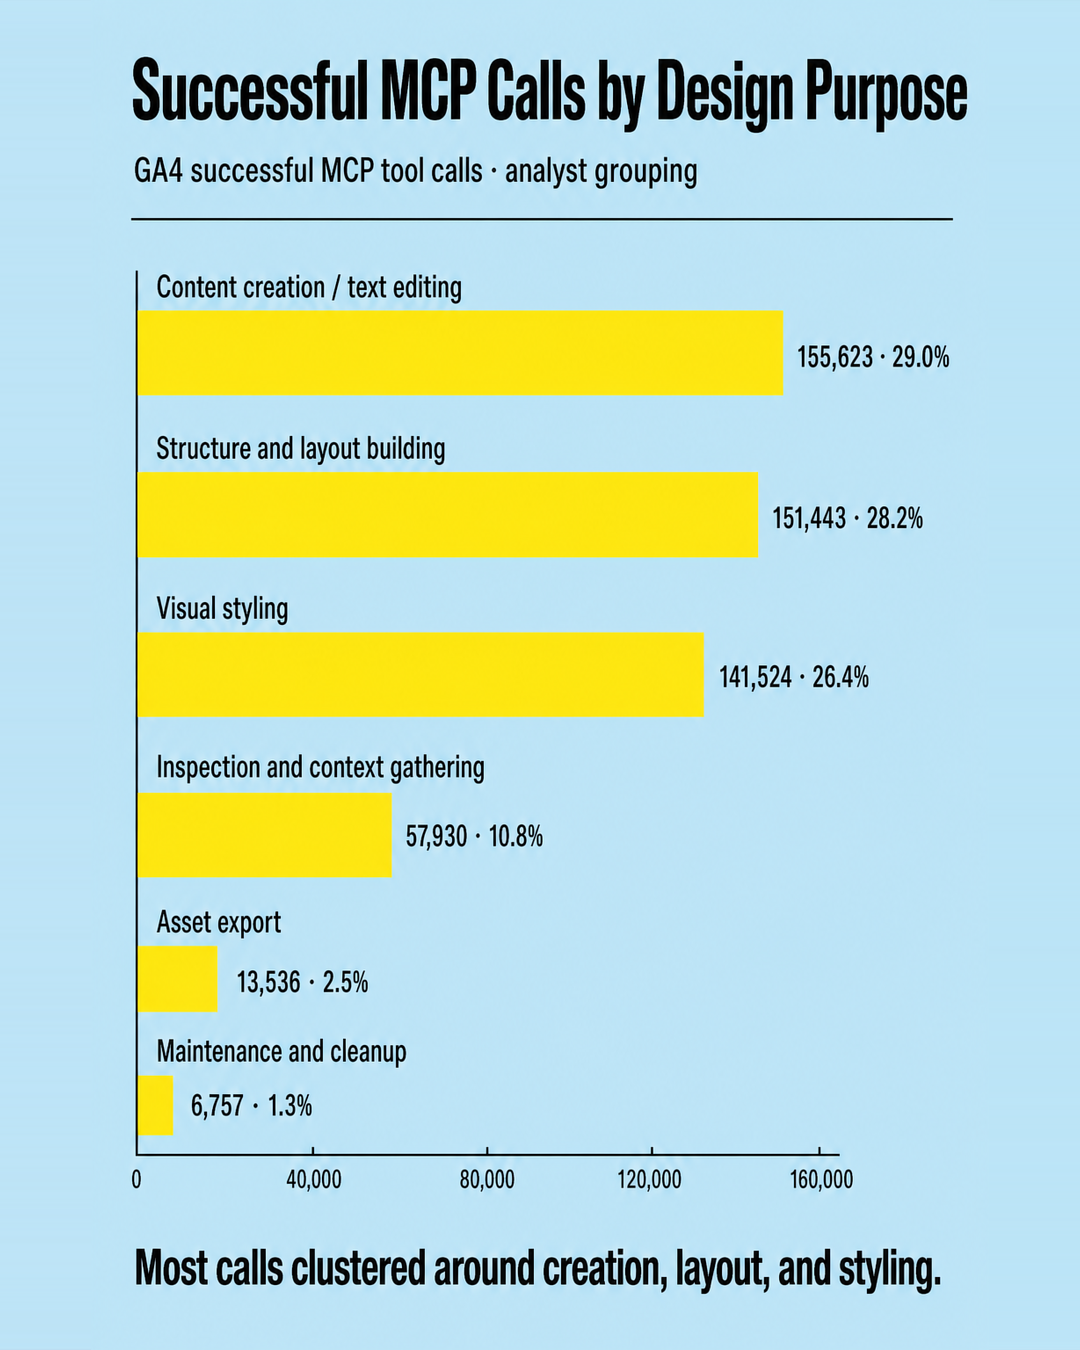
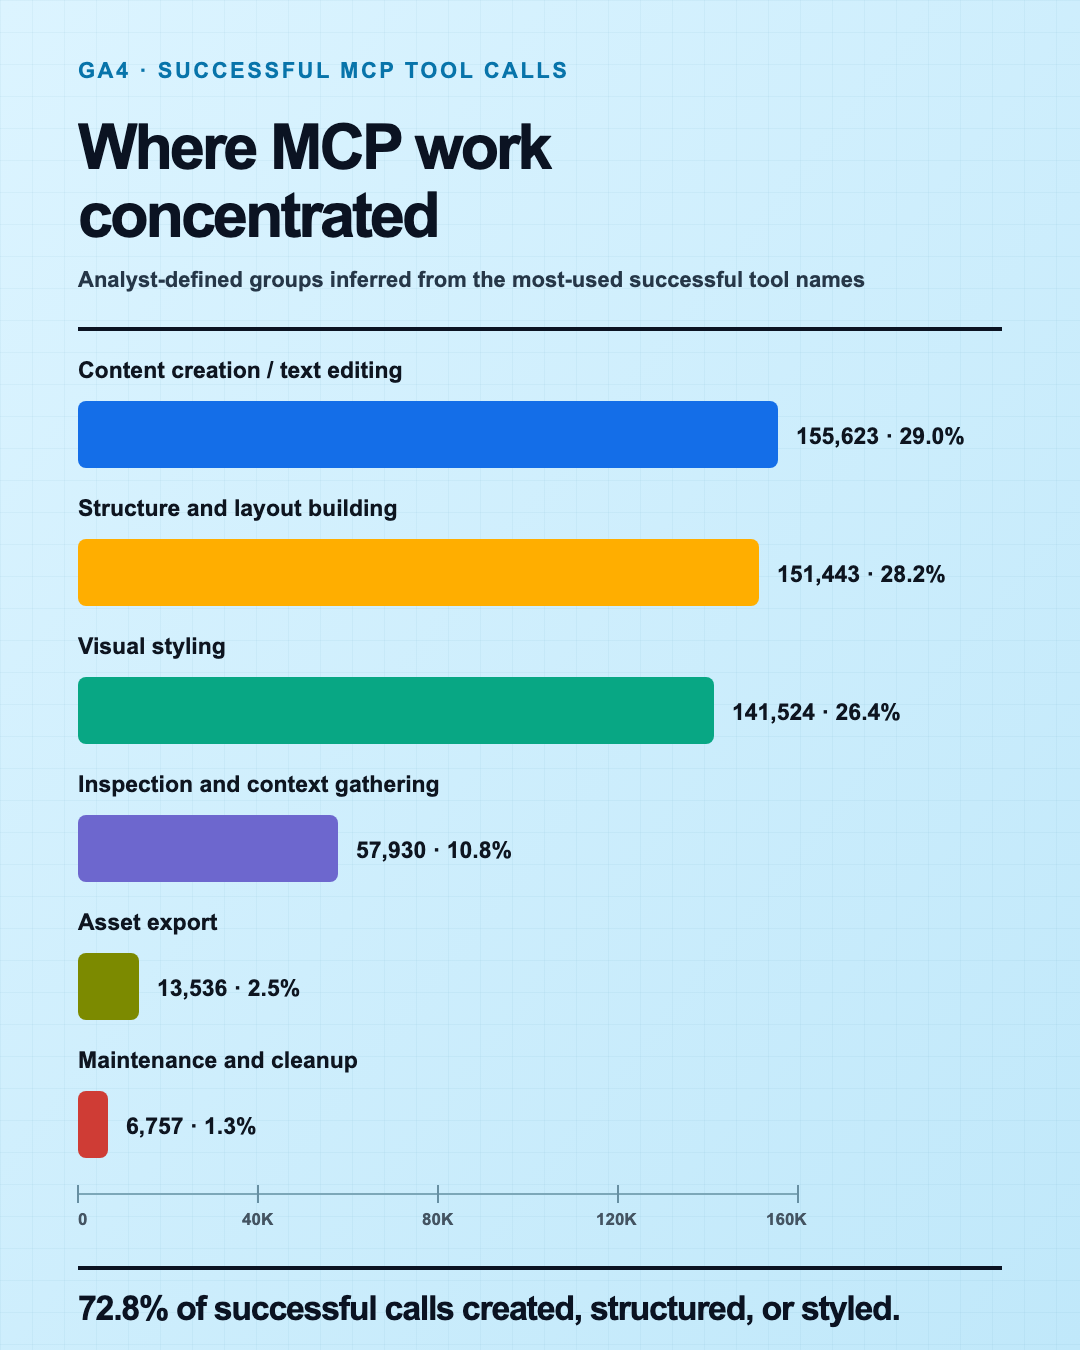
Update MCP Magic English retrospective

diff --git a/_posts/2026-07-12-mcp-magic-retrospective-en.md b/_posts/2026-07-12-mcp-magic-retrospective-en.md
@@ -1,49 +1,55 @@
 ---
 title: "31,360 Cumulative Users and 570,000 Calls: MCP Magic"
 date: 2026-07-12 00:00:00
-description: "31,360 cumulative users and 570,373 MCP tool calls. A retrospective on turning the first connection into a product—and what happened once the center of that experience moved into the platform."
+description: "31,360 cumulative users and 570,373 MCP tool calls. A retrospective on turning the first connection into a product—and what happened as the experience moved into the platform."
 featured_image: "/images/projects/2026-mcp-magic-retrospective/mcp-magic-desktop-en.png"
 article_class: "post__content--mcp-magic-retrospective"
 title_class: "post__title--mcp-magic-retrospective"
 visible: true
 lang: en
 translation_key: mcp-magic-retrospective
+authors:
+  - JooHyung
+  - Yiseo
+  - Jin
 ---
 
 > What we built was not a new AI feature. It was a doorway people could cross—from installation to their first successful call—without giving up along the way.
 
 _Read the [original Korean post](/blog/mcp-magic-retrospective)._
 
-GA4 recorded **31,360 cumulative users** and **570,373 MCP tool calls**. The project worked. But as usage grew, operating the connection became the harder problem, and the center of the experience we were solving for began moving into the official platform.
+GA4 recorded **31,360 cumulative users** and **570,373 MCP tool calls**. Those numbers show that the project was used in the real world. But after helping extend and launch the Talk To Figma desktop app that JooHyung and Jin had built into MCP Magic, I found myself thinking about a different set of questions: How could we keep this experience dependable as more people used it? And where would the path we made ultimately belong?
 
 <figure id="mcp-retro-key-metrics" class="mcp-retro-image-figure">
   <a href="/images/projects/2026-mcp-magic-retrospective/mcp-magic-key-metrics-social-en.png" aria-label="View the MCP Magic key metrics image at full size">
-    <img src="/images/projects/2026-mcp-magic-retrospective/mcp-magic-key-metrics-social-en.png" width="1122" height="1402" alt="An overview of 31,360 cumulative GA4 users, 570,373 MCP tool calls, and a 94.1 percent success rate for status-classified calls">
+    <img src="/images/projects/2026-mcp-magic-retrospective/mcp-magic-key-metrics-social-en.png" width="1080" height="1350" alt="An infographic showing 31,360 cumulative users, 570,373 MCP tool calls, and a 94.1 percent success rate among status-classified calls">
   </a>
   <figcaption>31,360 is the cumulative user count for the whole app. 1,633 active users generated at least one <code>mcp_tool_call</code> event; these are not sequential funnel stages for the same users. The GA4 query covers July 1, 2025–June 30, 2026, with valid records beginning in August 2025. The success rate uses the 570,044 calls with an explicit success or failure status.</figcaption>
 </figure>
 
-Watching AI read and edit a design in Figma was compelling. But when we handed the tools to other people, many stopped before reaching that moment. They had to set up a runtime and server, an MCP client and a Figma plugin separately—and when something went wrong, move back and forth between the terminal and the plugin.
+Watching AI read and edit a design in Figma was compelling from the start. But when we handed the tools to other people, many stopped before they ever reached that moment. They had to set up a runtime and server, an MCP client, and a Figma plugin separately—and move back and forth between the terminal and the plugin whenever something went wrong.
 
-So we brought those scattered preparation steps into one desktop app. Borrowing a Korean expression, we wanted a **“one-click” experience** where the server would just come up.
+When JooHyung and Jin showed me their prototype for putting that preparation into one desktop app, I knew we had the right starting point. I was not looking for grand automation. Borrowing a Korean expression, I wanted a **“click, and it just works” experience**—the server simply comes up.
 
 ## We built an entrance, not a feature
 
-MCP Magic did not start from scratch. Its starting point was [Cursor Talk To Figma MCP](https://github.com/grab/cursor-talk-to-figma-mcp), which the Grab Design team had used internally and released as open source. The core capability—reading and editing Figma through natural language—already worked.
+MCP Magic did not start from scratch. Its starting point was [Cursor Talk To Figma MCP](https://github.com/grab/cursor-talk-to-figma-mcp), which the Grab Design team used internally before releasing it as open source. The core capability—reading and editing Figma through natural language—already worked.
 
-The product problem we had to solve was not the core capability, but the path to first success. MCP Magic brought service startup, copied configuration, connection status, and logs—previously scattered across several tools—onto one screen.
+The problem JooHyung saw first was not a missing capability; it was the complex path to a user's first success. In July 2025, he and Jin released the Talk To Figma desktop app on GitHub. It gathered service startup, configuration, connection state, and logs into the menu-bar tray. That compact app is now Grab's official open-source project and the backbone of MCP Magic.
 
-We released the first KMP-based desktop version on July 18, 2025, then expanded it into a family of apps called MCP Magic that October. After listening to users, we rewrote the architecture in Electron. I worked through this with my fellow contributors **Yiseo and Jin**. The implementation changed more than once, but the question stayed the same.
+The prototype drew me into the project more deeply. I helped refine the desktop UI, translate complex setup into language people could act on, and introduce the work through community channels. That October, we expanded the foundation into a family of apps called MCP Magic. We rewrote the architecture more than once as we listened to users, but the question never changed.
 
 > How could more people get past the first connection and into real work?
 
-The app did not make MCP itself more powerful. It made the path to power that already existed shorter and clearer. A powerful capability that people abandon before their first connection might as well not exist to them.
+The app did not make MCP itself more powerful. It made the path to an existing capability shorter and clearer. If people give up before getting started, even a powerful feature may as well not exist for them.
 
 ## The project led to real work
 
 Over the 11 months with valid GA4 records, 1,633 active users generated at least one `mcp_tool_call` event. This figure is counted independently by event from the app-wide total of 31,360 cumulative users, so it does not mean all 31,360 people made it to MCP work. Still, that core group produced 570,373 MCP tool calls: 536,267 successes and 33,777 failures. Among calls with an explicit success or failure status, the success rate was **94.1%**.
 
-The core group that generated calls did not simply check whether a connection was live and leave. `create_text` succeeded 105,643 times, and `set_fill_color` 92,561 times—a combined 198,204. Grouping tool names into creation/duplication and styling/content editing yields 390,642 calls, or **72.8%** of all successful calls.
+**These 1,633 people were professional users already paying to work with AI and Figma.** They were using tools such as Cursor or Claude Code alongside paid Figma plans, then bringing MCP Magic into that stack. So this group represents more than installs or free trials: it is an early-adopter group that pulled a new workflow into real work.
+
+The most encouraging signal was that people did not just verify a connection and leave. `create_text` succeeded 105,643 times, and `set_fill_color` 92,561 times—a combined 198,204. Grouping tool names into creation/duplication and styling/content editing yields 390,642 calls, or **72.8%** of all successful calls.
 
 <figure id="mcp-retro-purpose-chart" class="mcp-retro-image-figure">
   <a href="/images/projects/2026-mcp-magic-retrospective/mcp-magic-calls-by-purpose-social-en.png" aria-label="View the MCP successful calls by design purpose chart at full size">
@@ -52,7 +58,7 @@ The core group that generated calls did not simply check whether a connection wa
   <figcaption>This is an analyst-defined classification of the most-used successful tools into six more specific design purposes, based on their names. People did not stop at reading Figma; they created, filled, and refined it.</figcaption>
 </figure>
 
-**What people wanted was not a connection for its own sake, but the moment when AI actually touched Figma.** MCP Magic's role was to build the entrance that made that moment reachable.
+**What people wanted was not a connection for its own sake, but the moment when AI actually touched Figma.** MCP Magic extended the possibility JooHyung and Jin had opened with the desktop app so that more people could turn it into real work.
 
 ### Depth was uneven, and some sessions became very deep
 
@@ -60,7 +66,7 @@ GA4 showed reach and call volume; the Aptabase export showed how deeply MCP was 
 
 <figure id="mcp-retro-session-depth" class="mcp-retro-image-figure">
   <a href="/images/projects/2026-mcp-magic-retrospective/mcp-magic-session-depth-social-en.png" aria-label="View the work depth in observed MCP sessions at full size">
-    <img src="/images/projects/2026-mcp-magic-retrospective/mcp-magic-session-depth-social-en.png" width="1080" height="1350" alt="A maximum observed span of 12 hours and 36 minutes and a maximum estimated 9,631 MCP calls; a median span of 25 minutes and 31 seconds with 11 estimated calls per session; a P95 span of 2 hours, 12 minutes, and 54 seconds with 367 calls; and the top 5 percent of sessions driving 55.1 percent of estimated calls">
+    <img src="/images/projects/2026-mcp-magic-retrospective/mcp-magic-session-depth-social-en.png" width="1080" height="1350" alt="An infographic showing a maximum observed span of 12 hours 36 minutes, a maximum estimated 9,631 MCP calls, a 25 minute 31 second median span with 11 estimated calls, and the top 5 percent of sessions driving 55.1 percent of estimated calls">
   </a>
   <figcaption>Release builds only. A span is the observed interval between the first and last event, not continuous usage time. Call counts are estimates with batch size expanded. Because event IDs are unavailable and identical rows repeat, extreme values cannot all be treated as independent tasks. Gaps in collection during each month mean these data do not represent total adoption or monthly trends.</figcaption>
 </figure>
@@ -69,11 +75,19 @@ Work depth was not evenly distributed. A typical observed MCP session had a medi
 
 ## After the click came operations
 
-As the user base grew, the question changed.
+As the user base grew, the questions I received changed too. I run several KakaoTalk open-chat communities, including Friends of Figma Seoul, with thousands of active members in total. That is where I began to see the shift first.
+
+At first, people were simply intrigued. Then the questions took on a different character.
+
+> “Does design really happen with just one click?”<br>
+> “Is this free?”<br>
+> “How do I install it for Cursor?”
+
+I cannot pin down a single cause, but the period when AI and MCP felt novel yet distant seemed to pass quickly. Within a year, many designers viewed them as tools they needed for work right away—and the urgency in the questions carried a sense of FOMO: learn it now, use it now.
+
+Those questions converged on one larger question.
 
 > Could we make this something people could keep trusting across different users, operating systems, MCP clients, and network environments?
-
-The channel run by Yiseo received questions about whether design really happened with just one click, whether all AI was free, and whether the app would handle Cursor or Claude Code setup too.
 
 Every user's “it doesn't work” had a different cause. A connection could fail at the server or port, the plugin channel, MCP client settings, or operating-system security. GA4 recorded 1,539 active users encountering port-binding issues, 1,231 encountering duplicate server-start handlers, and 1,056 encountering request timeouts.
 
@@ -83,11 +97,11 @@ The causes differed, but they arrived to users as the same message.
 
 High call-level success and session-level friction existed at the same time. GA4 showed a 94.1% success rate among calls with an explicit status, while a separate Aptabase release logbook—with a different period and instrumentation—recorded at least one failure event in 1,424 of 2,376 MCP sessions (59.9%). The two figures cannot be compared directly. But the fact that many observed MCP sessions contained at least one failure event shows why call-level success alone cannot explain the friction of doing the work.
 
-Making the first connection easy was not enough. Next came diagnosis and recovery appropriate to each user's level, connection reliability, and support operations. These were not ancillary operational chores; they were the product we still needed to build after the first connection.
+That was the realization: making the first connection easy was not enough. Next came diagnosis and recovery appropriate to each user's level, connection reliability, and support operations. These were not ancillary operational chores; they were part of the product we still needed to build after the first connection.
 
 ## Success did not guarantee survival
 
-We expanded language support and experimented with working through a local LLM without a separate IDE. But over time, the case for continuing large updates became weaker—not because there was no usage, but because the most natural home for the core experience we had made into a product began moving into the official platform.
+We expanded language support and experimented with working through a local LLM, Google Gemma 4, without a separate IDE. But over time, the case for continuing large updates became weaker—not because there was no usage, but because the most natural home for the core experience we had made into a product began moving into the official platform.
 
 In March 2026, Figma announced [a beta in which agents write directly to the canvas through `use_figma`](https://www.figma.com/blog/the-figma-canvas-is-now-open-to-agents/), followed in May by [the Figma design agent that works directly within the canvas](https://www.figma.com/blog/the-figma-agent-is-here/). The problem itself did not go away. The default place to solve it changed.
 
@@ -101,9 +115,9 @@ That is why we plan to keep MCP Magic closer to maintenance mode than shut it do
 
 ## What we will decide earlier next time
 
-In retrospect, we waited too long after making the first connection easy.
+In retrospect, we took too long to decide what would come after making the first connection easy. Three notes from building the project together have stayed with me.
 
-First, **we should have narrowed the next goal sooner.** We never decided whether to remain an installation helper, become a connection diagnosis and recovery tool, or combine the frequently repeated Figma work into a single workflow. After the first problem was solved, we needed a new product hypothesis.
+First, **we should have narrowed the next goal sooner.** We never decided whether to remain an installation helper, become a connection diagnosis and recovery tool, or combine frequently repeated Figma work into a single workflow. After the first problem was solved, we needed a new product hypothesis.
 
 Second, **we should have made the boundary of support clear.** It needed to be clearer which problems belonged to the app and which belonged to the Figma plugin, MCP client, operating system, or AI costs. Turning repeated “it doesn't work” reports into self-diagnosis and recovery flows mattered as much as developing features.
 
@@ -113,10 +127,10 @@ Third, **we should have connected user data to the next hypothesis sooner.** Onl
 
 What the project proved was demand, not a right for us to own that demand forever.
 
-MCP Magic reduced the first step of taking users from 0 to 80 to “one click.” The app reached 31,360 cumulative users, who accumulated 570,373 MCP tool calls. Those calls record work: creating text, applying color, making frames, and refining layouts.
+MCP Magic reduced the first step to the point where users could actually work with Figma through AI. Those calls record work: creating text, applying color, making frames, and refining layouts.
 
 At the same time, the final 20% still meant diagnosis and recovery, operations and support, and the choice of where our responsibility ended. Once the official platform began solving the same problem more naturally, the more important question was not what we could build, but what we could own for the long term.
 
-This is neither a record of failure nor an excuse for slowing updates. **A successful feature and a product entering maintenance mode can exist at the same time.** The 570,000 calls are both evidence that we solved the right problem and an invoice reminding us to choose a sustainable position earlier next time.
+This is neither a record of failure nor an excuse for slowing updates. **A successful feature and a product entering maintenance mode can exist at the same time.** The 570,000 calls are evidence that the work JooHyung and Jin started—and that I helped extend with MCP Magic—solved the right problem. They are also the bill reminding us to choose a sustainable position earlier next time.
 
 For denominators, methodology, data-quality limitations, and project history, see the separate [Appendix Markdown (Korean)](https://github.com/dusskapark/dusskapark.github.io/blob/master/research/mcp-magic-retrospective/APPENDIX.ko.md).